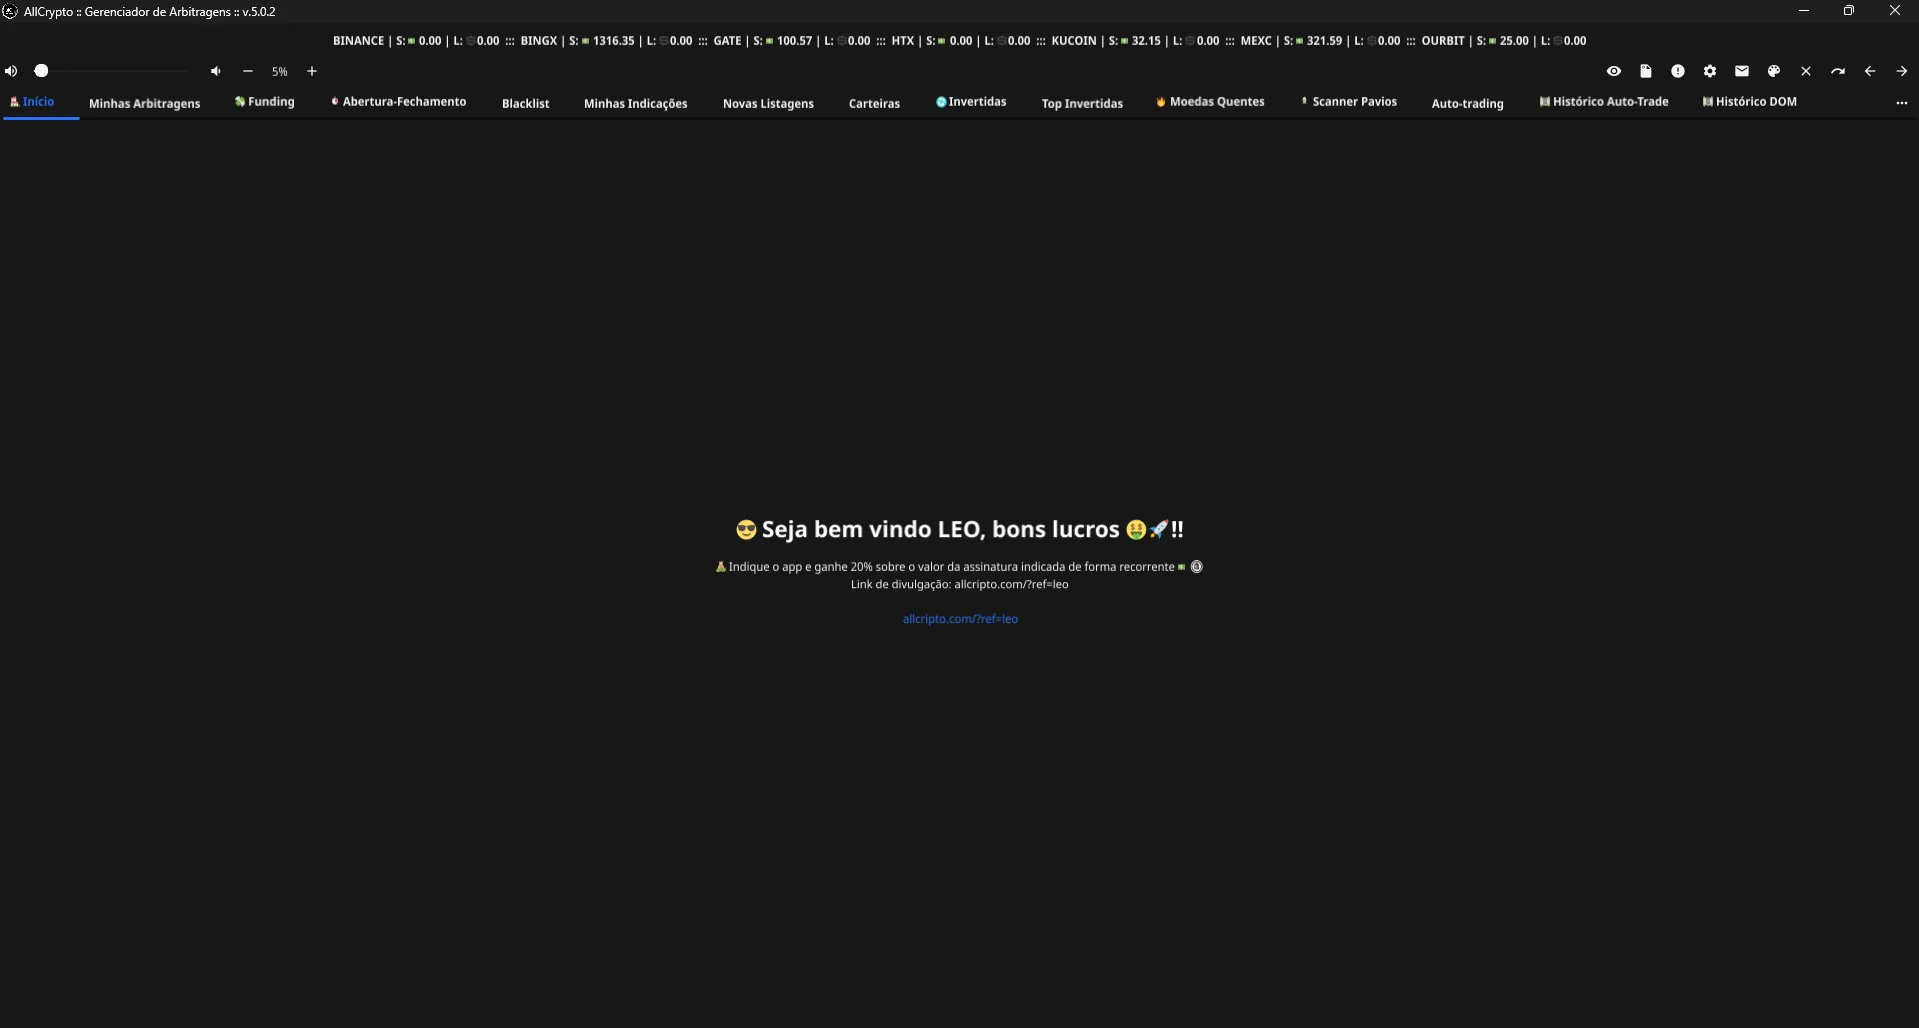
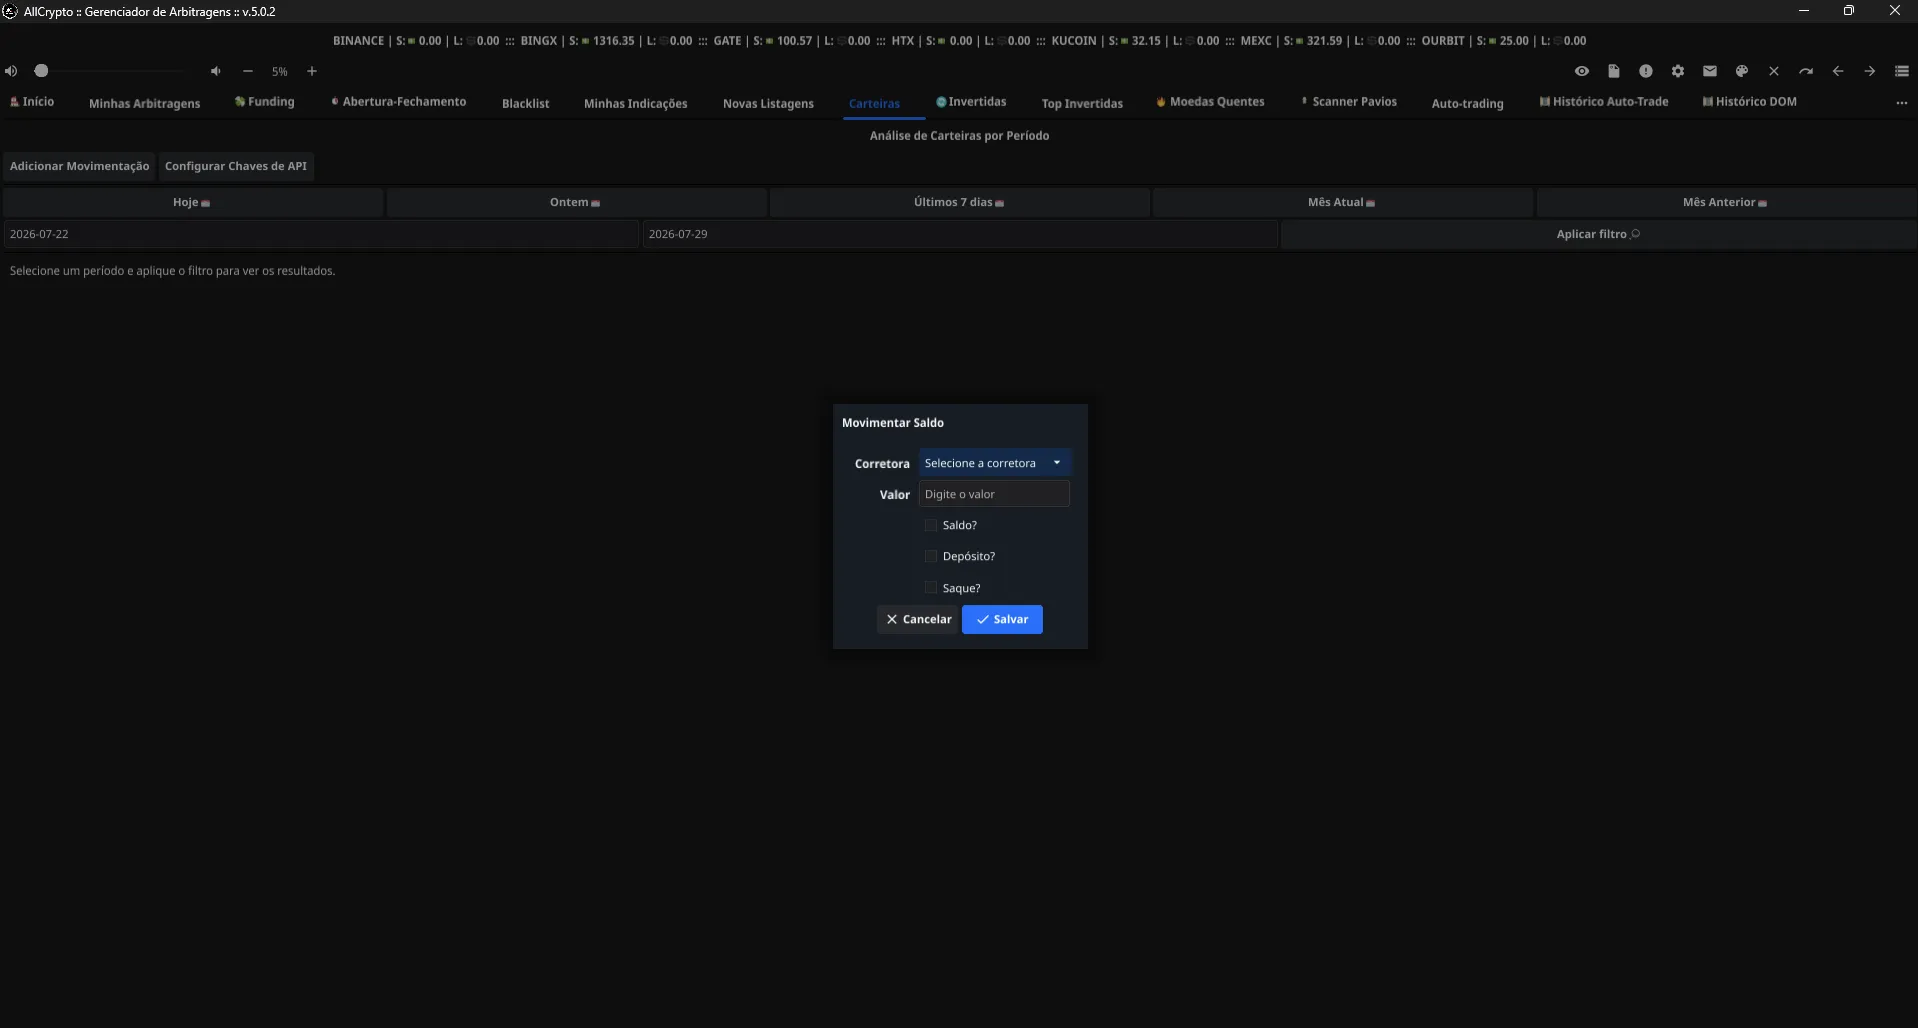
feat: add ImageLightbox component for displaying images in a modal

diff --git a/src/i18n/pt.ts b/src/i18n/pt.ts
@@ -67,7 +67,7 @@ const pt: Translation = {
       {
         title: 'PolyBot Copy Trading',
         description:
-          'Plataforma de copy trading assistida por IA para mercados de previsão.',
+          'Plataforma de copy trading assistida por IA para mercados de previsão, com gestão com análise e execuções para os mercados de 5-15Min BTC, ETH, SOL em criptomoedas e motor de controle de temperaturas máximas para o mercado de Clima baseado em fontes oficiais, e análise de Surebets em casas de apostas e de mercados preditivos.',
         features: [
           'Integração Polymarket',
           'Gerenciamento de portfólio',
@@ -84,7 +84,7 @@ const pt: Translation = {
       {
         title: 'Trader Dashboard',
         description:
-          'Dashboard profissional de trading para análises de portfólio e gestão de risco.',
+          'Dashboard profissional de trading esportivo com insights ao vivo sobre os mais variados mercados e eventos monitorados.',
         features: [
           'Análises de portfólio',
           'Gerenciamento de risco',
@@ -143,13 +143,12 @@ const pt: Translation = {
     description:
       'Plataforma de negociação automatizada de criptomoedas com arbitragem, integração com exchanges, dashboards em tempo real e ferramentas de gestão de risco.',
     technologies: [
-      'Python',
-      'FastAPI',
-      'React',
-      'PostgreSQL',
-      'Redis',
-      'Docker',
+      'Go',
+      'Fyne',
+      'SQLite',
       'WebSockets',
+      'API & DOM Bot',
+      'Telegram Bot',
     ],
     links: [
       { label: 'Visitar Site', url: 'https://allcripto.com' },
@@ -164,13 +163,14 @@ const pt: Translation = {
   polybot: {
     title: 'PolyBot Copy Trading',
     description:
-      'Sistema de copy trading para Polymarket com acompanhamento de posições, execução automática e monitorização em tempo real.',
+      'Sistema de copy trading para Polymarket com acompanhamento de posições, execução automática, monitorização em tempo real, gestão com análise e execuções para os mercados de 5-15Min BTC, ETH, SOL em criptomoedas e motor de controle de temperaturas máximas para o mercado de Clima baseado em fontes oficiais, e análise de Surebets em casas de apostas e de mercados preditivos.',
     badge: 'Plataforma Privada',
     technologies: [
       'Python',
+      'Go',
       'React',
-      'FastAPI',
-      'PostgreSQL',
+      'Fast',
+      'Sqlite',
       'Docker',
     ],
     links: [
@@ -185,14 +185,15 @@ const pt: Translation = {
   traderDashboard: {
     title: 'Trader Dashboard',
     description:
-      'Dashboard para monitorização de operações, performance, métricas, gestão de portfólio e análise de resultados.',
+      'Dashboard para monitorização de operações de trading esportivo com insights ao vivo sobre os mais variados mercados e eventos monitorados, incluindo métricas de performance, gestão de portfólio e análise de resultados.',
     badge: 'Plataforma Privada',
     technologies: [
       'React',
       'Next.js',
       'TypeScript',
       'FastAPI',
-      'PostgreSQL',
+      'SQLite Cloud',
+      'Telegram Bot',
       'Trading APIs',
     ],
     links: [

diff --git a/src/i18n/en.ts b/src/i18n/en.ts
@@ -67,7 +67,7 @@ const en: Translation = {
       {
         title: 'PolyBot Copy Trading',
         description:
-          'AI-assisted copy trading platform for prediction markets.',
+          'AI-assisted copy trading platform for prediction markets, with analysis and execution management for 5-15Min BTC, ETH, SOL crypto markets, a temperature control engine for Climate markets based on official sources, and Surebet analysis across bookmakers and prediction markets.',
         features: [
           'Polymarket integration',
           'Portfolio management',
@@ -84,7 +84,7 @@ const en: Translation = {
       {
         title: 'Trader Dashboard',
         description:
-          'Professional trading dashboard for portfolio analytics and risk management.',
+          'Professional sports trading dashboard with live insights across multiple markets and monitored events.',
         features: [
           'Portfolio analytics',
           'Risk management',
@@ -143,13 +143,12 @@ const en: Translation = {
     description:
       'Automated cryptocurrency trading platform with arbitrage, exchange integration, real-time dashboards and risk management tools.',
     technologies: [
-      'Python',
-      'FastAPI',
-      'React',
-      'PostgreSQL',
-      'Redis',
-      'Docker',
+      'Go',
+      'Fyne',
+      'SQLite',
       'WebSockets',
+      'API & DOM Bot',
+      'Telegram Bot',
     ],
     links: [
       { label: 'Visit Website', url: 'https://allcripto.com' },
@@ -164,13 +163,14 @@ const en: Translation = {
   polybot: {
     title: 'PolyBot Copy Trading',
     description:
-      'Copy trading system for Polymarket with position tracking, automatic execution and real-time monitoring.',
+      'Copy trading system for Polymarket with position tracking, automatic execution, real-time monitoring, analysis and execution management for 5-15Min BTC, ETH, SOL crypto markets, a temperature control engine for Climate markets based on official sources, and Surebet analysis across bookmakers and prediction markets.',
     badge: 'Private Platform',
     technologies: [
       'Python',
+      'Go',
       'React',
-      'FastAPI',
-      'PostgreSQL',
+      'Fast',
+      'Sqlite',
       'Docker',
     ],
     links: [
@@ -185,14 +185,15 @@ const en: Translation = {
   traderDashboard: {
     title: 'Trader Dashboard',
     description:
-      'Dashboard for operations monitoring, performance metrics, portfolio management and results analysis.',
+      'Sports trading dashboard with live insights across multiple markets and monitored events, featuring performance metrics, portfolio management and results analysis.',
     badge: 'Private Platform',
     technologies: [
       'React',
       'Next.js',
       'TypeScript',
       'FastAPI',
-      'PostgreSQL',
+      'SQLite Cloud',
+      'Telegram Bot',
       'Trading APIs',
     ],
     links: [

diff --git a/src/components/ProjectPageClient.tsx b/src/components/ProjectPageClient.tsx
@@ -1,11 +1,13 @@
 'use client';
 
+import { useState } from 'react';
 import Image from 'next/image';
 import Link from 'next/link';
 import { ExternalLink, Play } from 'lucide-react';
 import { useLanguage } from '@/context/LanguageContext';
 import Navbar from '@/components/Navbar';
 import Footer from '@/components/Footer';
+import ImageLightbox from '@/components/ImageLightbox';
 import type { ProjectPageContent } from '@/i18n/types';
 
 function LinkIcon({ url }: { url: string }) {
@@ -33,6 +35,7 @@ export default function ProjectPageClient({
   const content = t[key] as unknown as ProjectPageContent;
   const heroImage = images[0];
   const galleryImages = images.slice(1);
+  const [lightboxSrc, setLightboxSrc] = useState<string | null>(null);
 
   return (
     <>
@@ -78,7 +81,10 @@ export default function ProjectPageClient({
           </div>
 
           {heroImage && (
-            <div className="mt-10 overflow-hidden rounded-xl border border-gray-100 shadow-sm">
+            <button
+              onClick={() => setLightboxSrc(heroImage)}
+              className="mt-10 block w-full overflow-hidden rounded-xl border border-gray-100 shadow-sm transition-opacity hover:opacity-90"
+            >
               <Image
                 src={heroImage}
                 alt={content.title}
@@ -87,7 +93,7 @@ export default function ProjectPageClient({
                 className="h-auto w-full object-cover"
                 priority
               />
-            </div>
+            </button>
           )}
 
           <section className="mt-16">
@@ -113,9 +119,10 @@ export default function ProjectPageClient({
               </h2>
               <div className="mt-6 grid gap-4 sm:grid-cols-2">
                 {galleryImages.map((src) => (
-                  <div
+                  <button
                     key={src}
-                    className="overflow-hidden rounded-xl border border-gray-100 shadow-sm"
+                    onClick={() => setLightboxSrc(src)}
+                    className="overflow-hidden rounded-xl border border-gray-100 shadow-sm transition-opacity hover:opacity-90"
                   >
                     <Image
                       src={src}
@@ -125,7 +132,7 @@ export default function ProjectPageClient({
                       className="h-auto w-full object-cover"
                       loading="lazy"
                     />
-                  </div>
+                  </button>
                 ))}
               </div>
             </section>
@@ -143,6 +150,14 @@ export default function ProjectPageClient({
         </div>
       </main>
       <Footer />
+
+      {lightboxSrc && (
+        <ImageLightbox
+          src={lightboxSrc}
+          alt={content.title}
+          onClose={() => setLightboxSrc(null)}
+        />
+      )}
     </>
   );
 }

diff --git a/src/components/ImageLightbox.tsx b/src/components/ImageLightbox.tsx
@@ -1,0 +1,60 @@
+'use client';
+
+import { useEffect, useCallback } from 'react';
+import Image from 'next/image';
+import { X } from 'lucide-react';
+
+export default function ImageLightbox({
+  src,
+  alt,
+  onClose,
+}: {
+  src: string;
+  alt: string;
+  onClose: () => void;
+}) {
+  const handleKeyDown = useCallback(
+    (e: KeyboardEvent) => {
+      if (e.key === 'Escape') onClose();
+    },
+    [onClose]
+  );
+
+  useEffect(() => {
+    document.addEventListener('keydown', handleKeyDown);
+    document.body.style.overflow = 'hidden';
+    return () => {
+      document.removeEventListener('keydown', handleKeyDown);
+      document.body.style.overflow = '';
+    };
+  }, [handleKeyDown]);
+
+  return (
+    <div
+      className="fixed inset-0 z-[100] flex items-center justify-center bg-black/70 p-4 backdrop-blur-sm"
+      onClick={onClose}
+    >
+      <button
+        onClick={onClose}
+        className="absolute right-4 top-4 z-10 flex h-9 w-9 items-center justify-center rounded-full bg-white/10 text-white transition-colors hover:bg-white/20"
+        aria-label="Close"
+      >
+        <X className="h-5 w-5" />
+      </button>
+
+      <div
+        className="relative max-h-[90vh] max-w-[90vw] overflow-hidden rounded-xl shadow-2xl"
+        onClick={(e) => e.stopPropagation()}
+      >
+        <Image
+          src={src}
+          alt={alt}
+          width={1920}
+          height={1080}
+          className="h-auto w-full max-h-[90vh] max-w-[90vw] object-contain"
+          priority
+        />
+      </div>
+    </div>
+  );
+}
